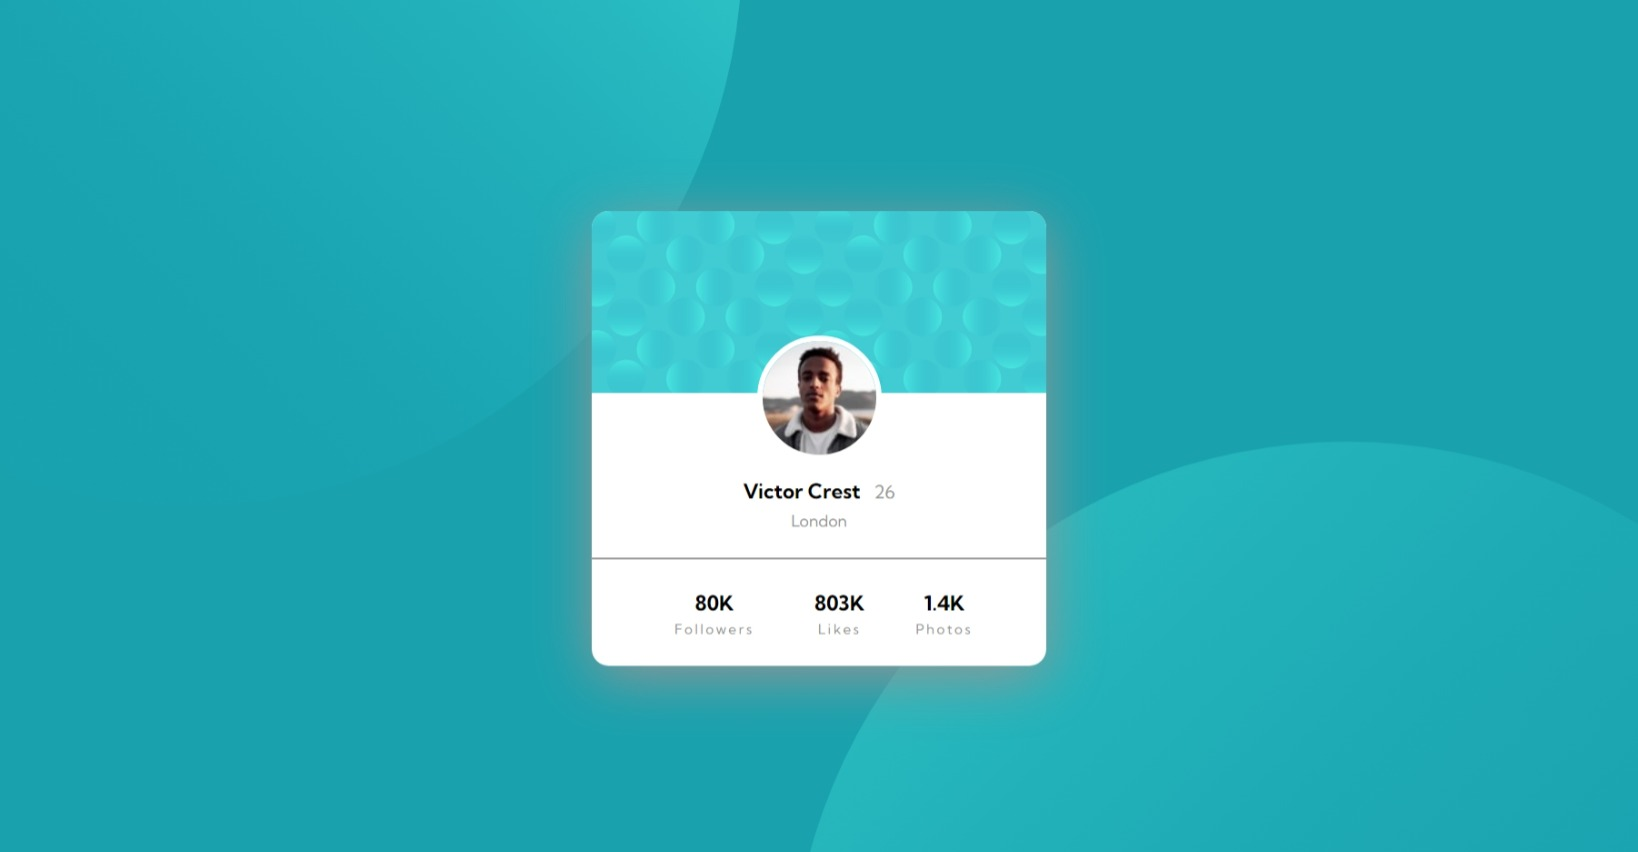
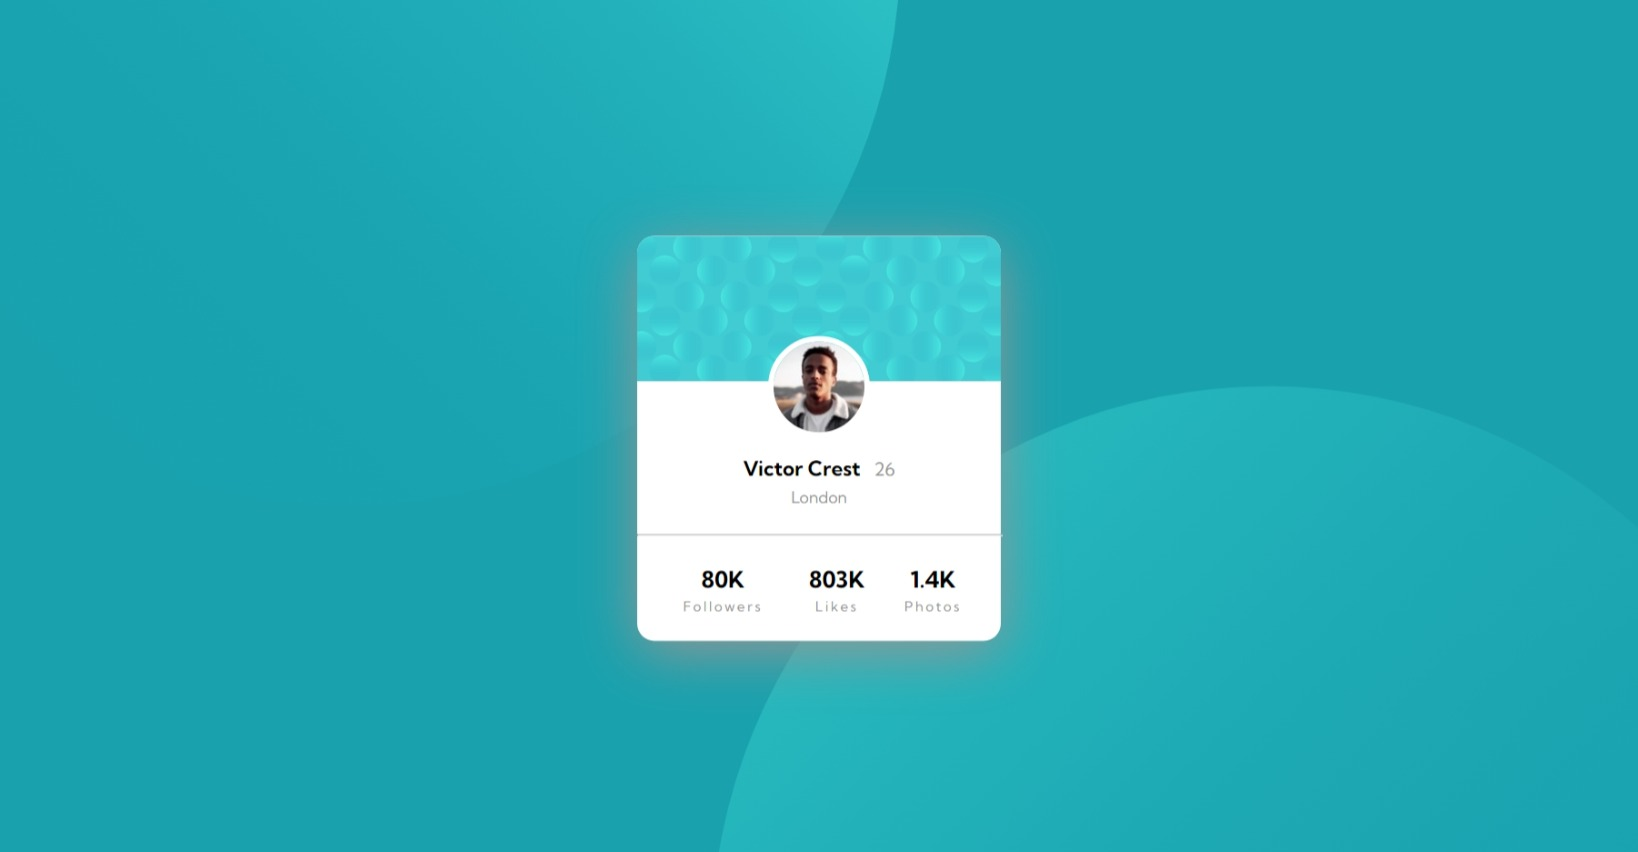
new update

Changed region(s): [[0.3425, 0.2136, 0.6538, 0.8239], [0.467, 0.0, 0.5604, 0.1221]]

diff --git a/index.html b/index.html
@@ -20,7 +20,8 @@
       background-color: hsl(185, 75%, 39%);
       background-image: url(./images/bg-pattern-top.svg), url(./images/bg-pattern-bottom.svg);
       background-repeat: no-repeat, no-repeat;
-      background-position: bottom 45% right 170%, left 150% top -40%;
+      /*background-position: bottom 45% right 170%, left 150% top -40%;*/
+      background-position: bottom 45% right 140%, left 135% top -35%;
       font-family: 'Kumbh Sans', sans-serif;
     }
 
@@ -28,8 +29,8 @@
       background-color: white;
       box-shadow: 0px 10px 50px hsl(0, 0%, 59%);
       margin-top: 10px;;
-      width: 400px;
-      height: 400px;
+      width: 320px;
+      height: fit-content;
       position: absolute;
       top: 50%;
       left: 50%;
@@ -42,23 +43,33 @@
 
     img.card-pattern {
       width: 100%;
-      height: auto;
       border-top-left-radius: 15px;
       border-top-right-radius: 15px;
     }
 
     img.avatar {
-      width: 100px;
-      height: 100px;
+      width: 80px;
+      height: 80px;
       border-radius: 50%;
       border: 5px solid white;
-      margin-top: -50px;
+      margin-top: -40px;
     }
 
     .card-separation {
       width: 100%;
       border: 1px solid hsl(0, 0%, 59%);
-      margin-top: 10px;
+      margin-top: 0px;
+    }
+
+    /* Media Query */
+    @media screen and (max-width: 376px) {
+      body {
+        background-position: bottom 40% right -30%, left -25% top -25%;
+      }
+
+      .card-container {
+        width: 80%;
+      }
     }
 
   </style>
@@ -82,10 +93,11 @@
 
     <p style="margin-top: -10px; color: hsl(0, 0%, 59%); font-size: 14px;">London</p>
 
-    <div class="card-separation"></div>
+    <!--<div class="card-separation"></div>-->
+    <hr style="width: 100%; margin-top: 10px">
 
-    <table style="width: 80%; margin-top: 25px; margin-left: auto; margin-right: auto; text-align: center;">
-      <tr style="font-size: 18px;">
+    <table style="width: 90%; margin-top: 15px; margin-left: auto; margin-right: auto; text-align: center; margin-bottom: 20px;">
+      <tr style="font-size: 20px;">
           <th>80K</th>
           <th>803K</th>
           <th>1.4K</th>

diff --git a/README.md b/README.md
@@ -8,7 +8,7 @@ The challenge is to build out this profile card component and get it looking as 
 
 ### a) My screenshot
 
-![My screenshot for the QR code component coding challenge](./screenshot.jpeg)
+![My screenshot for the Profile card component coding challenge](./screenshot.jpeg)
 
 ### b) Links
 
@@ -19,10 +19,9 @@ The challenge is to build out this profile card component and get it looking as 
 
 ### a) Built with
 
-- Semantic HTML5 markup
-- CSS custom properties
+- HTML
+- CSS
 - Flexbox and its some attributes (flex-direction, align-items)
-- [Styled Components](https://styled-components.com/) - For styles
 
 ### b) What I learned
 
@@ -42,8 +41,8 @@ The challenge is to build out this profile card component and get it looking as 
 ```
 
 ```html
-<table style="width: 80%; margin-top: 25px; margin-left: auto; margin-right: auto; text-align: center;">
-      <tr style="font-size: 18px;">
+<table style="width: 90%; margin-top: 15px; margin-left: auto; margin-right: auto; text-align: center; margin-bottom: 20px;">
+      <tr style="font-size: 20px;">
           <th>80K</th>
           <th>803K</th>
           <th>1.4K</th>
